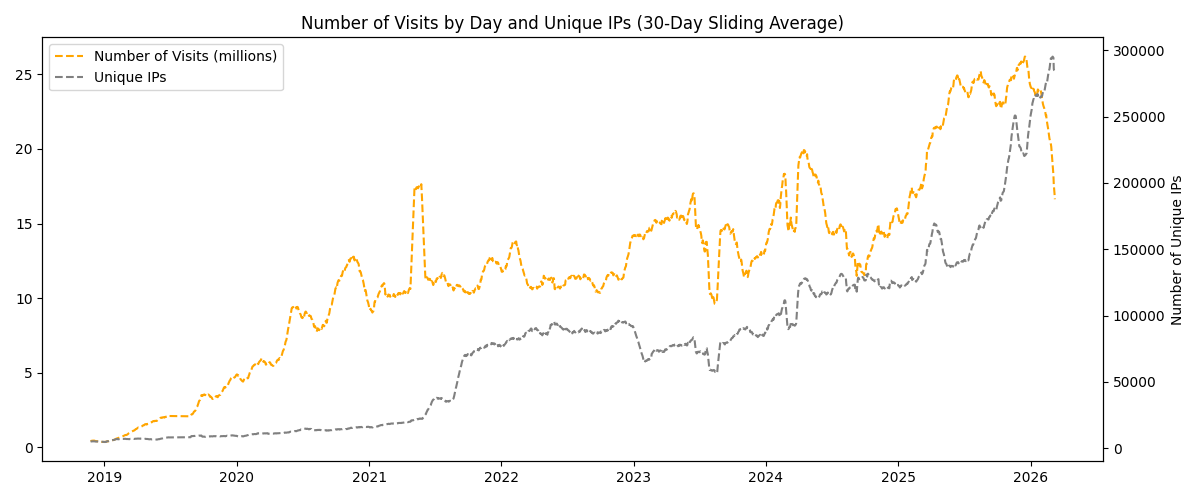
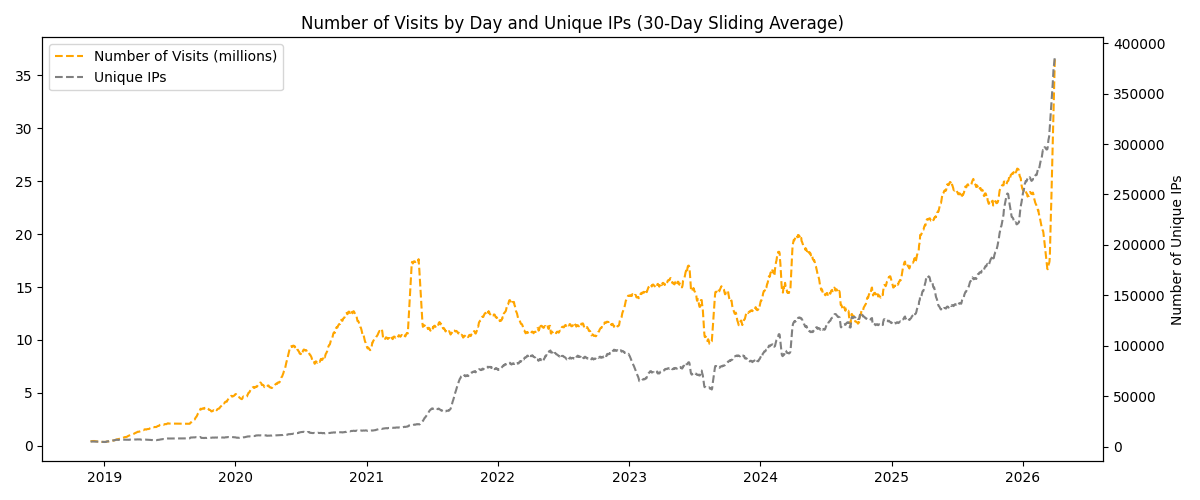
Update stats

diff --git a/README.md b/README.md
@@ -754,6 +754,6 @@ server {
 
 ## wttr.in usage stats
 
-As of March 2026, *wttr.in* handles 22-27 million queries per day from 300,000 to 320,000 users, according to the access logs.
+As of April 2026, *wttr.in* handles 50-60 million queries per day from 400,000 to 450,000 users, according to the access logs.
 
 ![wttr.in usage stats](share/stats/stats.png)
